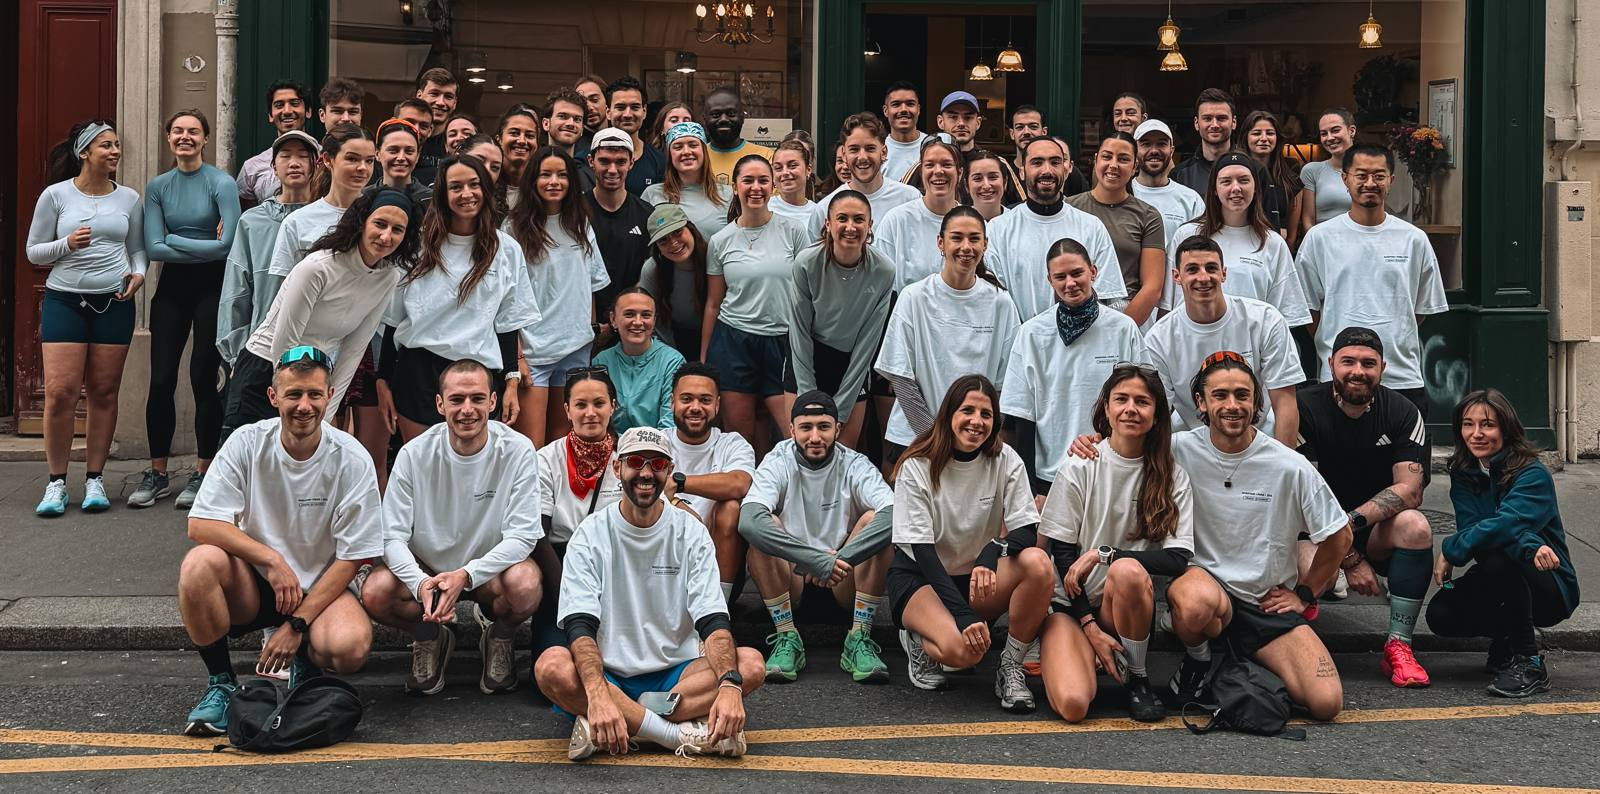
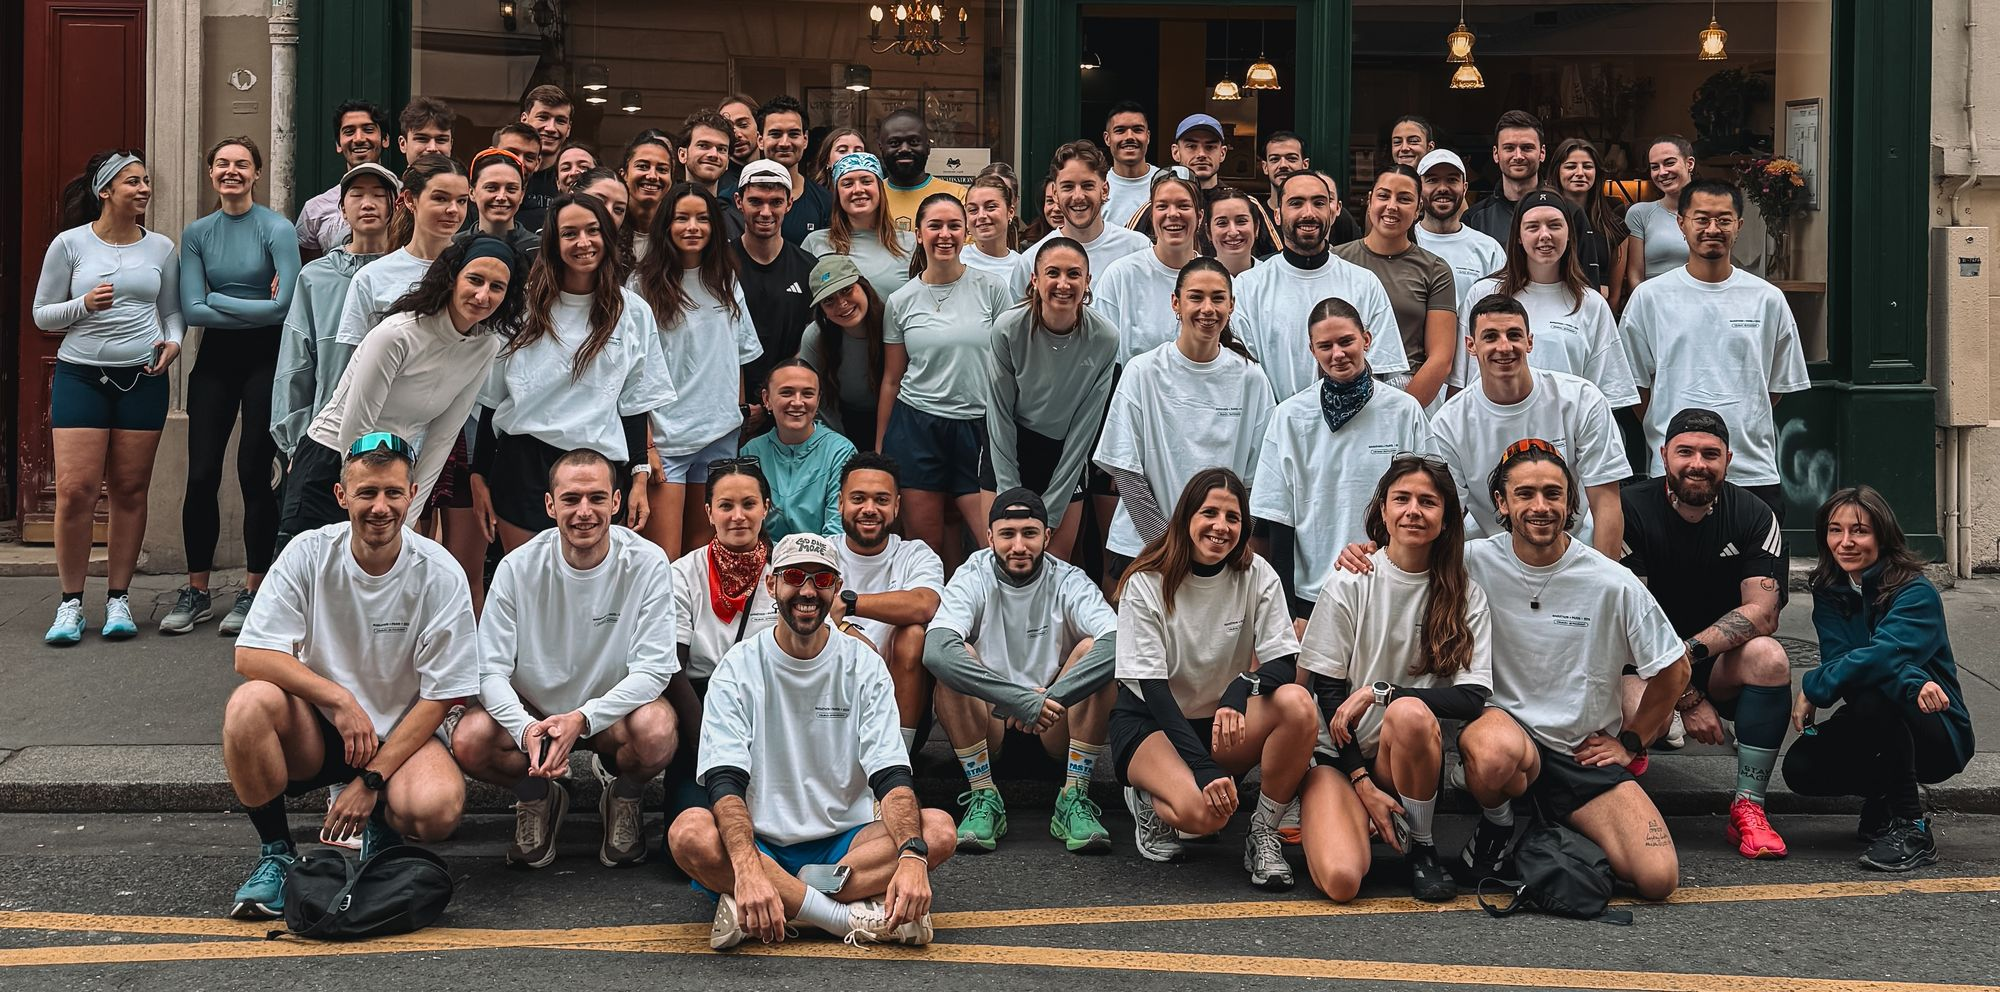
Hero : photo en meilleure résolution et mieux fondue dans le fond navy
- Régénère couverture.jpg à 2000px (au lieu de 1600px) pour plus de netteté sur écrans Retina
- Dégradé de fond assombri pour mieux fondre la photo, opacité de l'image réduite à 80%
- Cadrage légèrement remonté (22% au lieu de 30%)

Changed region(s): [[0.4062, 0.1511, 0.4375, 0.1814]]

diff --git a/index.html b/index.html
@@ -62,8 +62,8 @@ nav{position:fixed;top:0;left:0;right:0;z-index:100;display:flex;align-items:cen
 .nav-cta:hover{background:white;}
 
 .hero{min-height:100vh;background:var(--navy-deep);display:flex;flex-direction:column;justify-content:center;padding:150px 60px 0;position:relative;overflow:hidden;}
-.hero::before{content:'';position:absolute;inset:0;z-index:1;background:linear-gradient(80deg,rgba(11,29,48,.96) 0%,rgba(11,29,48,.8) 38%,rgba(11,29,48,.42) 68%,rgba(18,43,68,.28) 100%),linear-gradient(to top,rgba(11,29,48,.9) 0%,rgba(11,29,48,.25) 30%,transparent 55%);}
-.hero-bg-img{position:absolute;inset:0;width:100%;height:100%;object-fit:cover;object-position:center 30%;pointer-events:none;z-index:0;}
+.hero::before{content:'';position:absolute;inset:0;z-index:1;background:linear-gradient(80deg,rgba(11,29,48,.97) 0%,rgba(11,29,48,.85) 38%,rgba(11,29,48,.58) 68%,rgba(18,43,68,.42) 100%),linear-gradient(to top,rgba(11,29,48,.92) 0%,rgba(11,29,48,.35) 30%,rgba(11,29,48,.1) 55%);}
+.hero-bg-img{position:absolute;inset:0;width:100%;height:100%;object-fit:cover;object-position:center 22%;pointer-events:none;z-index:0;opacity:.8;}
 .hero > *:not(.hero-bg-img){position:relative;z-index:2;}
 .hero-eyebrow{font-family:'Bebas Neue',sans-serif;font-size:22px;letter-spacing:5px;color:var(--blue-sky);margin-bottom:22px;animation:fadeUp .8s ease both;text-shadow:0 1px 12px rgba(11,29,48,.8);}
 .hero h1{margin:0 0 18px;padding:0;animation:fadeUp .8s .1s ease both;font-family:'Big Shoulders Display',sans-serif;font-weight:800;font-size:clamp(64px,11vw,164px);line-height:.92;letter-spacing:-1px;color:white;text-transform:uppercase;text-shadow:0 2px 24px rgba(11,29,48,.6);}
